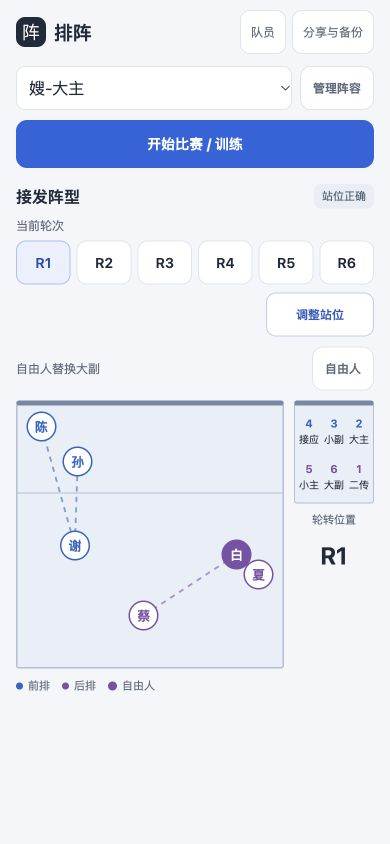
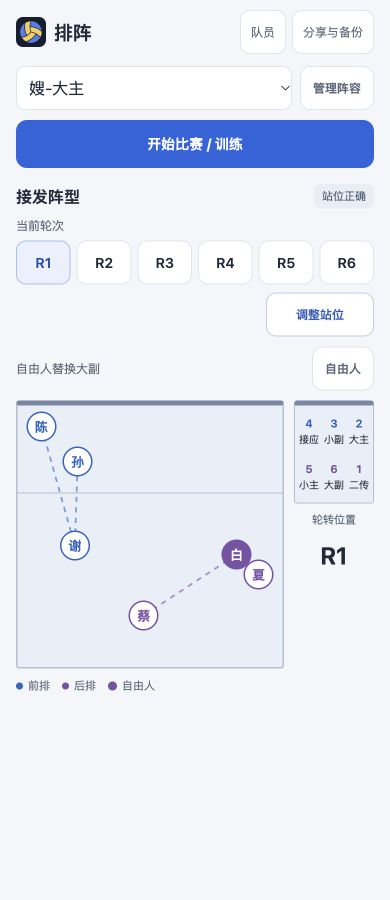
Update Site source

diff --git a/index.html b/index.html
@@ -1,4 +1,4 @@
-<!doctype html><html lang="zh-CN"><head><meta charset="utf-8"><meta name="viewport" content="width=device-width,initial-scale=1,viewport-fit=cover"><meta name="theme-color" content="#f4f6f9"><meta name="apple-mobile-web-app-title" content="排阵"><meta name="apple-mobile-web-app-capable" content="yes"><meta name="apple-mobile-web-app-status-bar-style" content="default"><meta name="description" content="排阵排球战术板：六轮接发站位、记分轮转、换人及离线保存。"><title>排阵 · 排球战术板</title><link rel="manifest" href="./manifest.webmanifest"><link rel="icon" href="./icons/app-icon-192.png" sizes="192x192"><link rel="apple-touch-icon" href="./icons/apple-touch-icon-180.png" sizes="180x180"><link rel="stylesheet" href="./styles.css"></head><body data-theme="ios"><main class="device" id="device"><div class="app"><header class="topbar"><div class="brand"><div class="brand-mark">阵</div><strong>排阵</strong></div><div class="header-tools"><button class="quiet" id="nav-roster">队员</button><button class="quiet" id="help">分享与备份</button></div></header><span id="save-status" role="status" hidden></span><p class="save-error" id="save-error" role="alert" hidden></p><div class="workspace"><div class="match-panel"><div class="lineup-bar"><select id="lineup-select" aria-label="选择阵容"></select><button class="secondary" id="manage-lineups">管理阵容</button></div><section class="welcome" id="welcome"><button class="primary" id="start">开始比赛 / 训练</button></section><section id="scoreboard" class="scoreboard" aria-label="记分板"><div class="score-meta"><strong id="serve-label">对方发球 · 我方接发</strong><span id="match-caption">R1</span></div><div class="score-row"><div><div class="team-name ours" id="team-us">我方</div><div class="score" id="score-us" aria-live="polite" aria-atomic="true">00</div><div class="score-controls"><button class="score-minus" id="minus-us" aria-label="我方减一分">−1</button><button class="score-add" id="add-us" aria-label="我方加一分">＋1</button></div></div><span class="separator">:</span><div class="opponent"><div class="team-name" id="team-them">对方</div><div class="score" id="score-them" aria-live="polite" aria-atomic="true">00</div><div class="score-controls"><button class="score-minus" id="minus-them" aria-label="对方减一分">−1</button><button class="score-add" id="add-them" aria-label="对方加一分">＋1</button></div></div></div><div class="scoreboard-tools"><button class="score-undo" id="undo" disabled>撤销上次记分</button><button class="quiet" id="correct">校正比赛</button><button class="quiet" id="exit">退出</button></div></section>
+<!doctype html><html lang="zh-CN"><head><meta charset="utf-8"><meta name="viewport" content="width=device-width,initial-scale=1,viewport-fit=cover"><meta name="theme-color" content="#f4f6f9"><meta name="apple-mobile-web-app-title" content="排阵"><meta name="apple-mobile-web-app-capable" content="yes"><meta name="apple-mobile-web-app-status-bar-style" content="default"><meta name="description" content="排阵排球战术板：六轮接发站位、记分轮转、换人及离线保存。"><title>排阵 · 排球战术板</title><link rel="manifest" href="./manifest.webmanifest"><link rel="icon" href="./icons/paizhen-192-v2.png" sizes="192x192"><link rel="apple-touch-icon" href="./icons/apple-touch-icon-v2.png" sizes="180x180"><link rel="stylesheet" href="./styles.css"></head><body data-theme="ios"><main class="device" id="device"><div class="app"><header class="topbar"><div class="brand"><div class="brand-mark"><img src="./icons/paizhen-mark.svg" alt="" aria-hidden="true" width="30" height="30"></div><strong>排阵</strong></div><div class="header-tools"><button class="quiet" id="nav-roster">队员</button><button class="quiet" id="help">分享与备份</button></div></header><span id="save-status" role="status" hidden></span><p class="save-error" id="save-error" role="alert" hidden></p><div class="workspace"><div class="match-panel"><div class="lineup-bar"><select id="lineup-select" aria-label="选择阵容"></select><button class="secondary" id="manage-lineups">管理阵容</button></div><section class="welcome" id="welcome"><button class="primary" id="start">开始比赛 / 训练</button></section><section id="scoreboard" class="scoreboard" aria-label="记分板"><div class="score-meta"><strong id="serve-label">对方发球 · 我方接发</strong><span id="match-caption">R1</span></div><div class="score-row"><div><div class="team-name ours" id="team-us">我方</div><div class="score" id="score-us" aria-live="polite" aria-atomic="true">00</div><div class="score-controls"><button class="score-minus" id="minus-us" aria-label="我方减一分">−1</button><button class="score-add" id="add-us" aria-label="我方加一分">＋1</button></div></div><span class="separator">:</span><div class="opponent"><div class="team-name" id="team-them">对方</div><div class="score" id="score-them" aria-live="polite" aria-atomic="true">00</div><div class="score-controls"><button class="score-minus" id="minus-them" aria-label="对方减一分">−1</button><button class="score-add" id="add-them" aria-label="对方加一分">＋1</button></div></div></div><div class="scoreboard-tools"><button class="score-undo" id="undo" disabled>撤销上次记分</button><button class="quiet" id="correct">校正比赛</button><button class="quiet" id="exit">退出</button></div></section>
 </div><section class="tactics-panel">
 <div class="preview-banner" id="preview-banner" hidden><span id="preview-copy"></span><button id="return-current">返回记分</button></div><div class="section-title"><h2 id="court-heading">接发站位</h2><span class="status" id="valid-status">站位关系正确</span></div>
 <section class="round-area"><div class="round-heading"><span id="round-label">当前轮次</span></div><div class="rounds" id="rounds" aria-label="选择预览轮次"></div></section><div class="court-tools"><button class="secondary" id="substitute">换人 / 换回</button><button id="restore-round" hidden>恢复本轮默认</button><button id="cancel-edit" class="quiet" hidden>取消调整</button><button class="secondary" id="edit" aria-pressed="false">调整站位</button></div>
@@ -16,7 +16,7 @@
 <dialog id="libero-dialog" aria-labelledby="libero-title"><form id="libero-form"><div class="dialog-heading"><h2 id="libero-title">自由人</h2><button type="button" data-close aria-label="关闭自由人替换">×</button></div><p id="libero-current"></p><label class="field">替换角色<select id="libero-role"></select></label><label class="confirmation" id="libero-confirm-label"><input type="checkbox" id="libero-confirm">当前为死球，且尚未鸣发球哨</label><p class="form-error" id="libero-error" role="alert"></p><button class="primary" id="libero-submit" style="width:100%" type="submit">确认</button><details id="libero-records"><summary>替换记录</summary><div id="libero-history"></div></details></form></dialog>
 <dialog id="exit-dialog" aria-labelledby="exit-title"><h2 id="exit-title">将这套站位留到下次？</h2><p id="exit-copy"></p><div class="dialog-buttons"><button class="primary" id="exit-save">保存到当前阵容并退出</button><button class="secondary" id="exit-discard">不保存站位并退出</button><button class="quiet" data-close>继续比赛</button></div></dialog>
 <dialog id="confirm-dialog" aria-labelledby="confirm-title"><h2 id="confirm-title">确认操作</h2><p id="confirm-copy"></p><div class="dialog-buttons"><button class="primary" id="confirm-yes">确认</button><button class="secondary" data-close>取消</button></div></dialog>
-<dialog id="help-dialog" aria-labelledby="help-title"><div class="dialog-heading"><h2 id="help-title">分享与备份</h2><button data-close aria-label="关闭使用说明">×</button></div><div class="share-shortcuts"><button class="primary" id="open-share">分享队员与阵型</button><button class="secondary" id="open-import">粘贴链接导入</button></div><div class="help-copy"><h3>记分</h3><p>点击 ＋1 记分，−1 修正分数；误点后使用比分板内的“撤销上次记分”。“校正比赛”可直接修改比分、轮次和发球方。</p><h3>队员与阵型</h3><p>通过顶部阵容选择器切换，使用“管理阵容”新建、复制或重命名。在“队员”中编辑共用名单和当前阵容首发。比赛中使用“换人 / 换回”更换队员。点击“调整站位”后拖动圆圈，再点“完成”；“取消调整”可恢复进入编辑前的站位。六轮按钮用于切换查看，点击“返回 R… 记分”继续记分。</p><h3>保存与备份</h3><p>关闭页面后可继续上次比赛。退出比赛时，选择是否将本场站位保存回当前阵容。通过复制、粘贴分享链接保存或导入队员与阵型。</p><h3>添加到主屏幕</h3><p>在 iPhone Safari 中点击“分享 → 添加到主屏幕”。首次联网打开，等待离线资源准备完成后即可离线使用。</p><p id="offline-status" role="status">离线资源准备中…</p><button class="secondary" id="check-update">检查更新</button><button class="primary" id="apply-update" hidden>更新应用</button><a class="update-link" href="./update.html">打不开新版？进入独立更新页</a><p class="app-version">版本 2026.10.22.1</p></div></dialog>
+<dialog id="help-dialog" aria-labelledby="help-title"><div class="dialog-heading"><h2 id="help-title">分享与备份</h2><button data-close aria-label="关闭使用说明">×</button></div><div class="share-shortcuts"><button class="primary" id="open-share">分享队员与阵型</button><button class="secondary" id="open-import">粘贴链接导入</button></div><div class="help-copy"><h3>记分</h3><p>点击 ＋1 记分，−1 修正分数；误点后使用比分板内的“撤销上次记分”。“校正比赛”可直接修改比分、轮次和发球方。</p><h3>队员与阵型</h3><p>通过顶部阵容选择器切换，使用“管理阵容”新建、复制或重命名。在“队员”中编辑共用名单和当前阵容首发。比赛中使用“换人 / 换回”更换队员。点击“调整站位”后拖动圆圈，再点“完成”；“取消调整”可恢复进入编辑前的站位。六轮按钮用于切换查看，点击“返回 R… 记分”继续记分。</p><h3>保存与备份</h3><p>关闭页面后可继续上次比赛。退出比赛时，选择是否将本场站位保存回当前阵容。通过复制、粘贴分享链接保存或导入队员与阵型。</p><h3>添加到主屏幕</h3><p>在 iPhone Safari 中点击“分享 → 添加到主屏幕”。首次联网打开，等待离线资源准备完成后即可离线使用。</p><p id="offline-status" role="status">离线资源准备中…</p><button class="secondary" id="check-update">检查更新</button><button class="primary" id="apply-update" hidden>更新应用</button><a class="update-link" href="./update.html">打不开新版？进入独立更新页</a><p class="app-version">版本 2026.10.22.2</p></div></dialog>
 <dialog id="share-dialog" aria-labelledby="share-title"><div class="dialog-heading"><h2 id="share-title">分享队员与阵型</h2><button data-close aria-label="关闭分享">×</button></div><label class="field">分享内容<select id="share-source"></select></label><p class="share-summary" id="share-summary"></p><label class="field">分享链接<textarea id="share-link" rows="3" readonly aria-label="生成的分享链接"></textarea></label><p class="share-note">短链接通过 da.gd 在线生成。收到链接的人可导入名单、六轮阵型和自由人预设，不包含比分或比赛记录。</p><p class="form-error" id="share-error" role="alert"></p><div class="share-actions"><button class="primary" id="copy-share" disabled>复制短链接</button><button class="secondary" id="copy-full-share" disabled>复制完整链接（可离线生成）</button></div></dialog>
 <dialog id="import-dialog" aria-labelledby="import-title"><div class="dialog-heading"><h2 id="import-title">从链接导入</h2><button data-close aria-label="关闭链接导入">×</button></div><label class="field">队友的分享链接<textarea id="import-link" rows="4" placeholder="在这里粘贴队友的短链接或完整链接" spellcheck="false" autocapitalize="off"></textarea></label><button class="primary" id="preview-import" style="width:100%">预览队员与阵型</button><p class="form-error" id="import-error" role="alert"></p></dialog>
 <dialog id="import-preview-dialog" aria-labelledby="import-preview-title"><div class="dialog-heading"><h2 id="import-preview-title">导入队员与阵型</h2><button data-close aria-label="取消导入">×</button></div><p class="share-summary" id="import-summary"></p><div class="import-lineup" id="import-lineup"></div><p class="share-note">作为新阵容导入，保留已有阵容；同名同位置队员复用，其他队员加入共用名单。</p><p class="form-error" id="import-preview-error" role="alert"></p><div class="dialog-buttons"><button class="primary" id="apply-import">确认导入</button><button class="secondary" data-close>取消</button></div></dialog>

diff --git a/update.html b/update.html
@@ -1,1 +1,1 @@
-<!doctype html><html lang="zh-CN"><head><meta charset="utf-8"><meta name="viewport" content="width=device-width,initial-scale=1,viewport-fit=cover"><meta name="theme-color" content="#f4f6f9"><meta name="robots" content="noindex"><title>更新排阵</title><style>html,body,button,a{touch-action:manipulation}body{margin:0;padding:24px 16px;background:#f4f6f9;color:#202a3a;font:16px/1.7 -apple-system,BlinkMacSystemFont,"PingFang SC",sans-serif}main{max-width:400px;margin:10vh auto;background:white;border:1px solid #dfe5ee;border-radius:20px;padding:24px}h1{font-size:23px;margin:0 0 12px}p{font-size:14px;color:#5c687a}button,a{display:block;box-sizing:border-box;width:100%;min-height:46px;border:0;border-radius:11px;text-align:center;font:inherit;padding:10px;background:#2864df;color:white;text-decoration:none}button:disabled{background:#e9edf4;color:#78869d}a{margin-top:12px;background:#edf0f5;color:#46556a}[hidden]{display:none}#status{overflow-wrap:anywhere}</style></head><body><main><h1>更新排阵</h1><p>先在原页面完成正在编辑的内容。更新会保留本机队员、阵容和已保存的比赛。</p><button id="update">检查并更新应用</button><p id="status" role="status" aria-live="polite">请保持联网，更新完成后返回应用。</p><a href="./" id="return" hidden>打开排阵</a></main><script type="module" src="./update.js?v=20261022-1"></script></body></html>
+<!doctype html><html lang="zh-CN"><head><meta charset="utf-8"><meta name="viewport" content="width=device-width,initial-scale=1,viewport-fit=cover"><meta name="theme-color" content="#f4f6f9"><meta name="robots" content="noindex"><title>更新排阵</title><style>html,body,button,a{touch-action:manipulation}body{margin:0;padding:24px 16px;background:#f4f6f9;color:#202a3a;font:16px/1.7 -apple-system,BlinkMacSystemFont,"PingFang SC",sans-serif}main{max-width:400px;margin:10vh auto;background:white;border:1px solid #dfe5ee;border-radius:20px;padding:24px}h1{font-size:23px;margin:0 0 12px}p{font-size:14px;color:#5c687a}button,a{display:block;box-sizing:border-box;width:100%;min-height:46px;border:0;border-radius:11px;text-align:center;font:inherit;padding:10px;background:#2864df;color:white;text-decoration:none}button:disabled{background:#e9edf4;color:#78869d}a{margin-top:12px;background:#edf0f5;color:#46556a}[hidden]{display:none}#status{overflow-wrap:anywhere}</style></head><body><main><h1>更新排阵</h1><p>先在原页面完成正在编辑的内容。更新会保留本机队员、阵容和已保存的比赛。</p><button id="update">检查并更新应用</button><p id="status" role="status" aria-live="polite">请保持联网，更新完成后返回应用。</p><a href="./" id="return" hidden>打开排阵</a></main><script type="module" src="./update.js?v=20261022-2"></script></body></html>

diff --git a/styles.css b/styles.css
@@ -28,7 +28,8 @@ button:focus-visible, input:focus-visible, select:focus-visible, textarea:focus-
 .app { padding: max(10px, env(safe-area-inset-top)) 16px max(16px, env(safe-area-inset-bottom)); }
 .topbar { display: flex; align-items: center; justify-content: space-between; gap: 12px; min-height: 44px; margin-bottom: 12px; }
 .brand { display: flex; align-items: center; gap: 8px; }
-.brand-mark { display: grid; place-items: center; width: 30px; height: 30px; border-radius: 9px; background: var(--ink); color: white; font-size: 18px; font-weight: 300; }
+.brand-mark { width: 30px; height: 30px; flex-shrink: 0; border-radius: 7px; overflow: hidden; }
+.brand-mark img { display: block; width: 100%; height: 100%; }
 .brand strong { font-size: 19px; }
 .header-tools { display: flex; gap: 6px; }
 .header-tools button { padding: 0 10px; border: 1px solid var(--line); border-radius: 10px; background: var(--card); font-size: 12px; }

diff --git a/sw.js b/sw.js
@@ -1,5 +1,5 @@
-const CACHE='lunjian-v16';
-const SHELL=['./','./index.html','./styles.css','./app.js','./updates.js','./core.js','./libero.js','./shortlinks.js','./sharing.js','./storage.js','./manifest.webmanifest','./icons/app-icon-192.png','./icons/app-icon-512.png','./icons/apple-touch-icon-180.png'];
+const CACHE='lunjian-v18';
+const SHELL=['./','./index.html','./styles.css','./app.js','./updates.js','./core.js','./libero.js','./shortlinks.js','./sharing.js','./storage.js','./manifest.webmanifest','./icons/paizhen-192-v2.png','./icons/paizhen-512-v2.png','./icons/apple-touch-icon-v2.png','./icons/paizhen-mark.svg'];
 const BASE=new URL('./',self.location.href);
 const URLS=new Set(SHELL.map(p=>new URL(p,BASE).href));
 self.addEventListener('install',event=>event.waitUntil(caches.open(CACHE).then(cache=>cache.addAll(SHELL.map(path=>new Request(new URL(path,BASE),{cache:'reload'}))))));

diff --git a/README.md b/README.md
@@ -1,5 +1,5 @@
 <div align="center">
-  <img src="icons/app-icon-192.png" alt="排阵图标" width="72" />
+  <img src="icons/paizhen-mark.svg" alt="排阵图标" width="72" />
   <h1>排阵 · 排球战术板</h1>
   <p>为排球训练与比赛设计的手机战术板，也是我的一次 Vibe Coding 实践。</p>
   <p><a href="https://xavieryx.github.io/Volleyball-tactics/">在线体验</a> · <a href="#界面与功能">功能展示</a> · <a href="#本地运行">本地运行</a></p>
@@ -64,6 +64,8 @@
 ## 技术实现
 
 原生 **HTML、CSS、JavaScript**，以静态 PWA 形式运行；使用 IndexedDB 保存本机数据，Service Worker 提供离线资源缓存，GitHub Actions 完成测试与构建，GitHub Pages 提供在线访问。
+
+图标采用深色底与蓝黄排球组合；排球线条基于 [Lucide](https://lucide.dev/icons/volleyball) 调整，授权见 [ISC License](icons/LICENSE-lucide)。
 
 ## 本地运行
 
